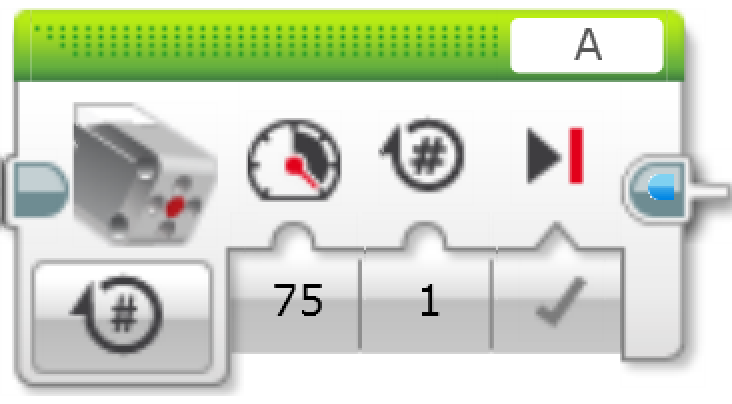
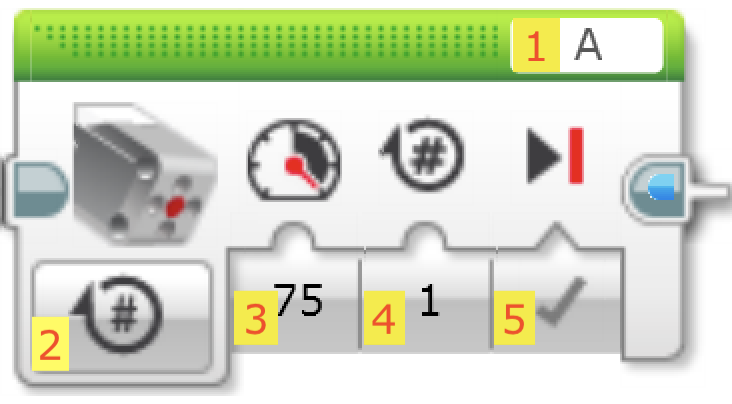
Updates to medium motor page

diff --git a/actions/medium_motor.md b/actions/medium_motor.md
@@ -1,3 +1,73 @@
 # Action > Medium Motor
 
 ![Image](../images/ev3_action_mediummotor.png)
+
+## Overview
+The medium motor block is most obviously used to connect to the medium motor. Do not attempt to use this with one of the larger motors.
+
+1. Port Selection
+
+    This is used to tell the Control Brick which port to send the command to. Motors must be plugged into the lettered ports (A, B, C, D). If you change the physical cable location in your robot, make sure you update these blocks.
+
+    The last option other than a letter looks like the port port connection on the Control Brick. If you select this option, it will add a new 'Port' option on the code block right before the option labeled as 3 in the above image. This allows you to pass in the port letter from the output of a Data Operation block.
+
+2. Action Selection
+
+   The action selection is used to choose what action you want the medium motor to perform. Currently it has five options.
+
+   - Off : Used to stop the motor
+
+   - On : Turns on the motor. The motor will keep running until a future block tells it to stop
+
+   - On for Seconds : Turns on the motor for a specified number of seconds. The time is controlled by another setting on the code block. The motor will stop or continue after the time based off another setting on the code block
+
+   - On for Degrees: Turns on the motor for a number of degrees of a rotation. A rotation is one complete 360 degree change of the motor.The motor will stop or continue after the time based off another setting on the code block
+
+   - On for Rotations: Turns on the motor for a specified number of rotations. This can be fractions of a rotation. The motor will stop or continue after the time based off another setting on the code block
+
+3. Power Parameter
+
+   Sets the amount of power to use when turning the motor. Higher power means faster rotations. Valid values would -100 to 100. Negative power turns the motor in the opposite rotation
+
+4. Counter Parameter
+
+   This next setting changes based off the `Action Selection`. 
+   - When the action is **On for Seconds** then the counter is the number of seconds to execute the action. 
+   - When the action is **On for Rotations** then the counter is the number of rotations to execute. This can be a decimal such as **1.5** seconds.
+   - When the action is **On for Defrees** then the counter represents the degrees. Can be 0 to 360 to turn one way, and 0 to -360 to turn the opposite 
+
+5. Break Parameter
+
+   Tells the robot to stop the motor after completing the `Action Selection` for the number of time the `Counter` is set to.
+
+    Two options:
+
+   - Brake - Applies the brake upon completion of the action
+
+        ![Image](../images/ev3_motor_brake.png)
+
+   - Coast - Lets the motor coast to a stop
+
+        ![Image](../images/ev3_motor_coast.png)
+
+   This parameter is missing when you set `Action Selection` to 'On' since that action is meant to turn the motor on and move to the next block. It is the only parameter when you set the `Action Selection` to 'Off'.
+
+
+## Examples
+
+### Turn on medium motor on port A at 80 percent power
+
+   ![Image](../images/ev3_action_mediummotor_example_1.png)
+
+### Turn on medium motor on port A at 75 percent power for 5 seconds
+
+   ![Image](../images/ev3_action_mediummotor_example_2.png)
+
+### Reverse on medium motor on port C at 75 percent power for 90 degress
+
+   ![Image](../images/ev3_action_mediummotor_example_3.png)
+
+### Reverse on medium motor on port C at 25 percent power for 11.5 rotations
+
+   ![Image](../images/ev3_action_mediummotor_example_4.png)
+
